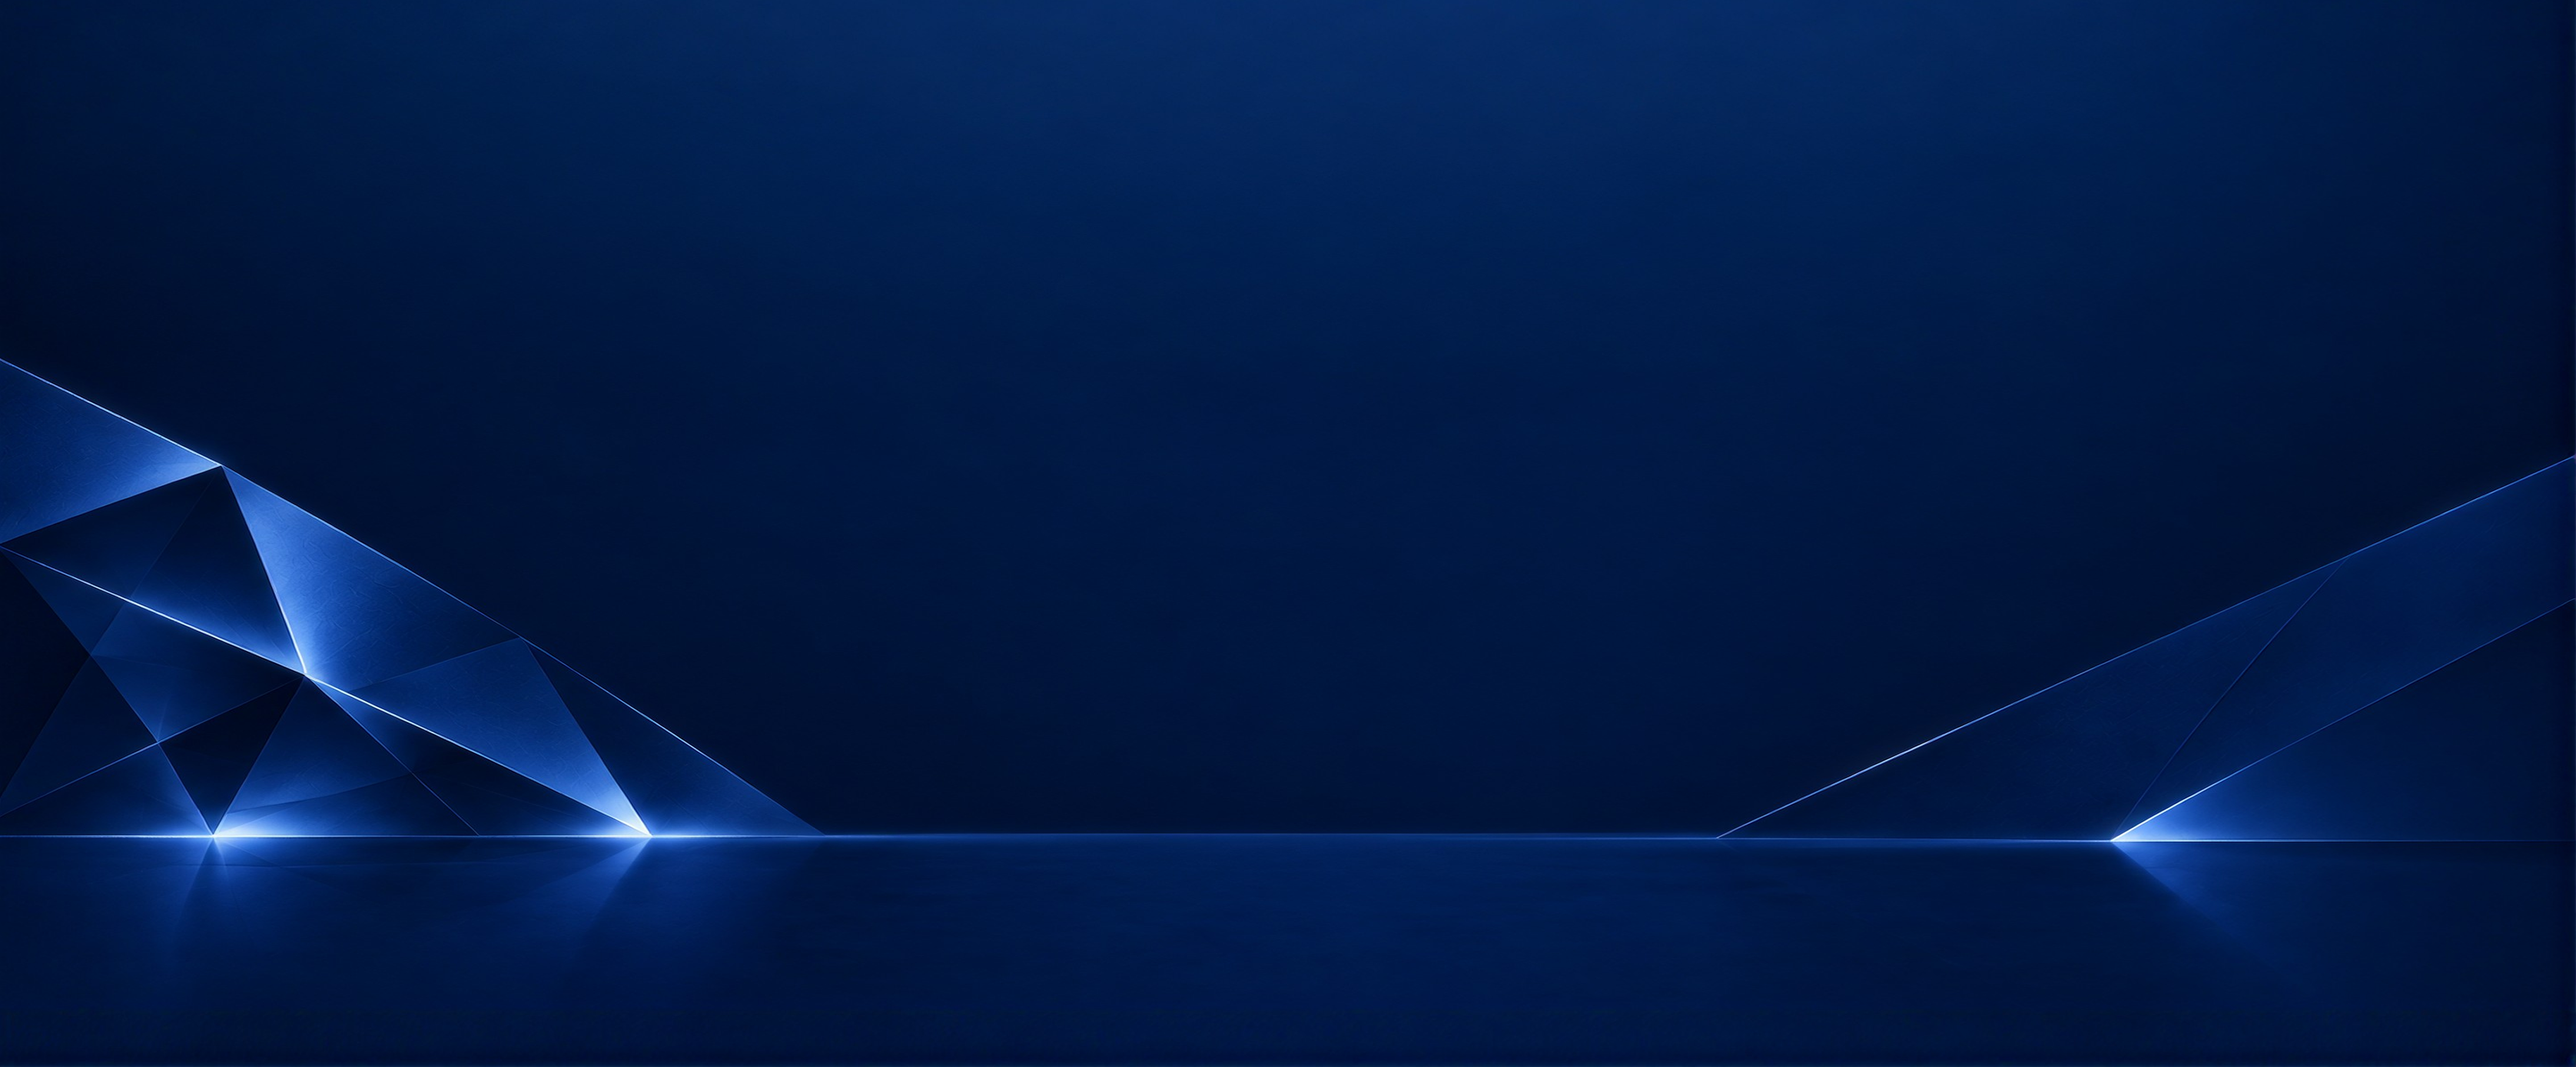
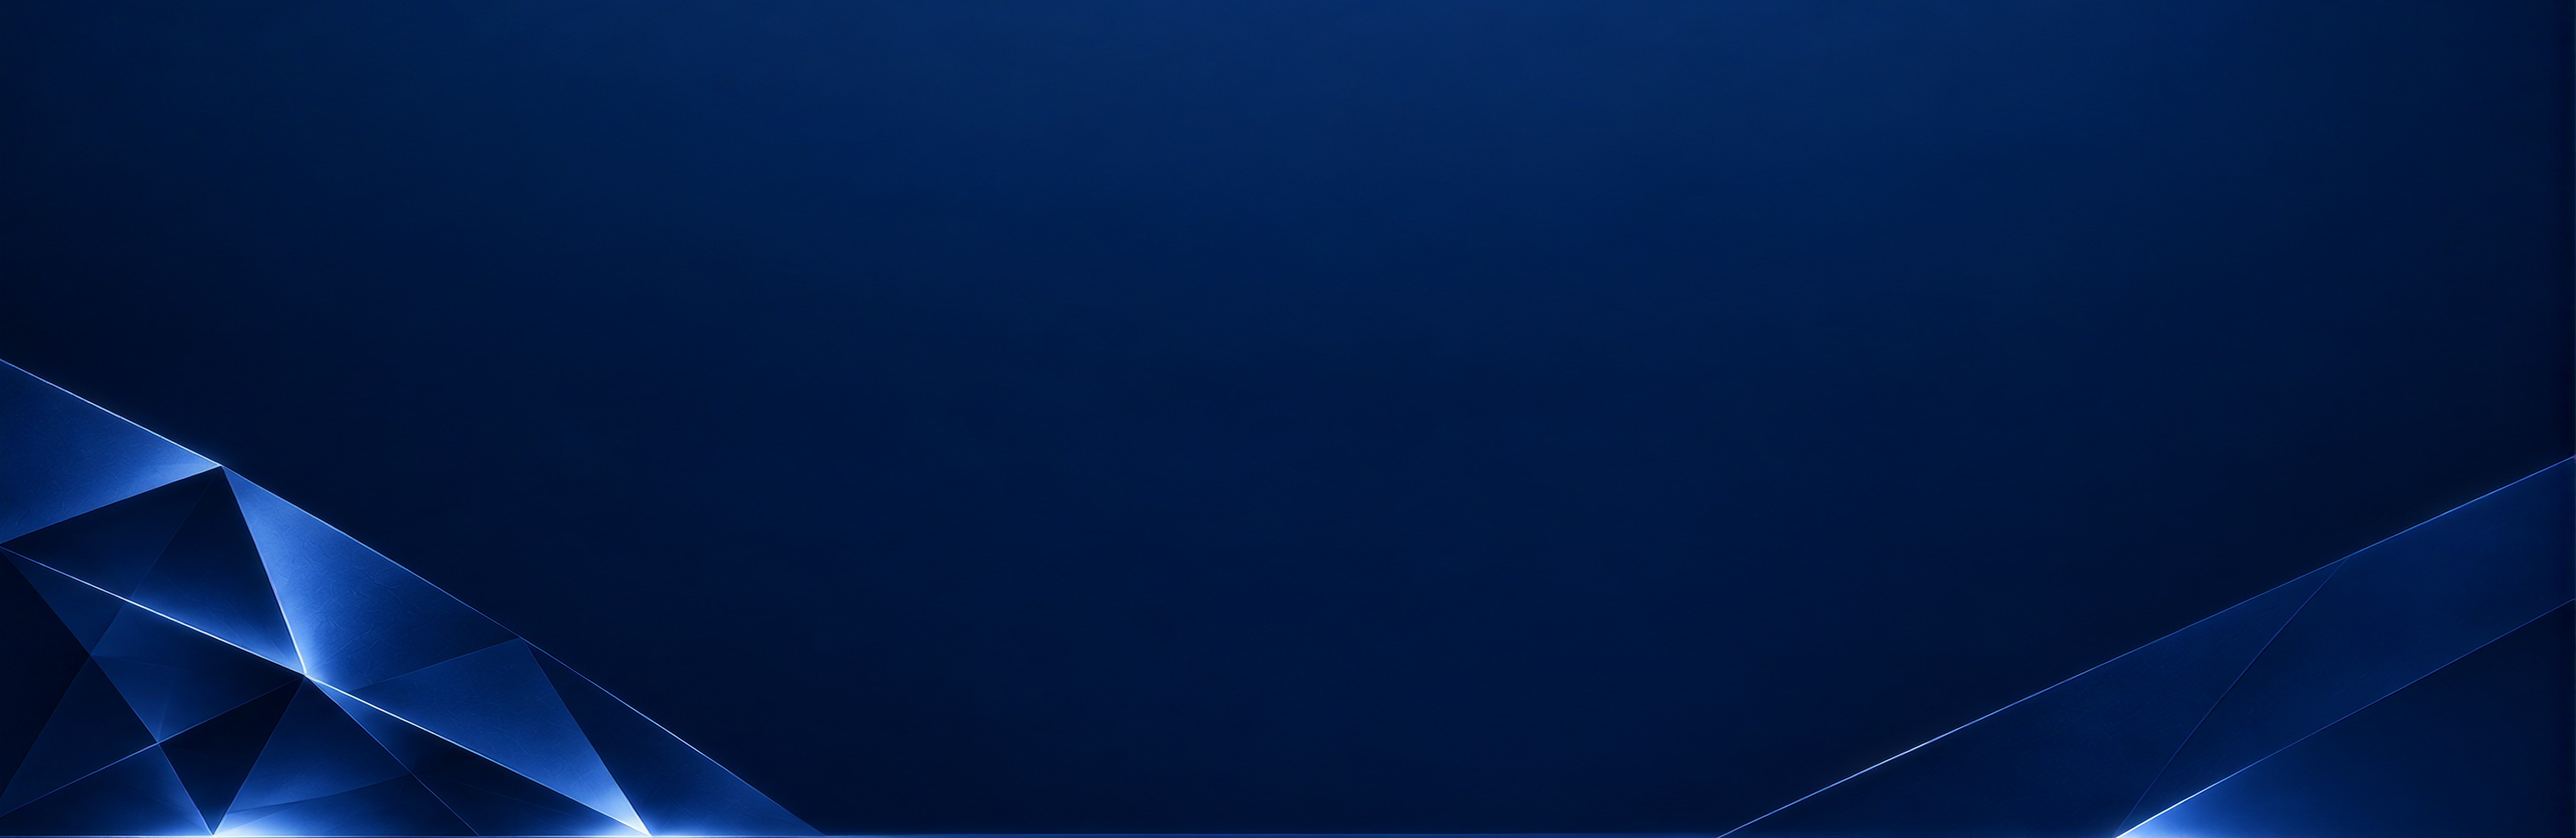
Center-align footer bottom bar content except on mobile

Changed region(s): [[0.0, 0.3399, 1.0, 1.0], [0.777, 0.8961, 0.9324, 1.0]]

diff --git a/components/SiteFooter/SiteFooter.module.css b/components/SiteFooter/SiteFooter.module.css
@@ -87,7 +87,7 @@
   align-items: start;
   column-gap: clamp(24px, 3.4vw, 49px);
   row-gap: clamp(32px, 5vh, 56px);
-  padding-bottom: clamp(56px, 18vh, 400px);
+  padding-bottom: clamp(56px, 10vh, 400px);
 }
 
 /* ---------------------------- nav columns ------------------------- */
@@ -218,7 +218,7 @@
   display: flex;
   flex-wrap: wrap;
   align-items: center;
-  justify-content: flex-start;
+  justify-content: center;
   gap: 14px;
 }
 
